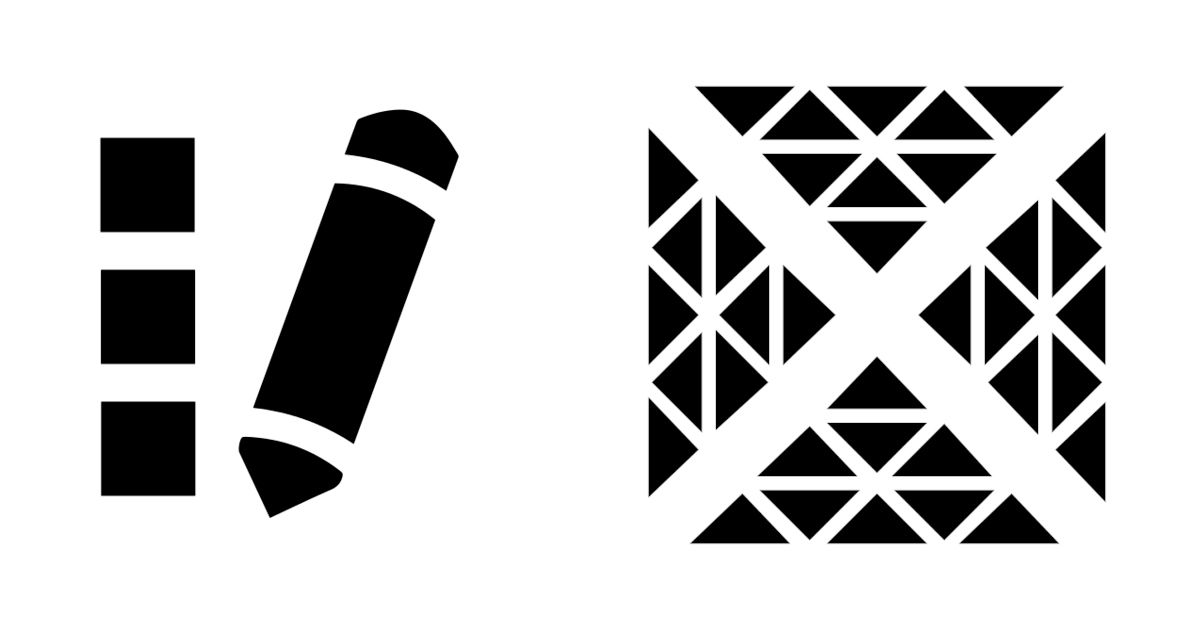
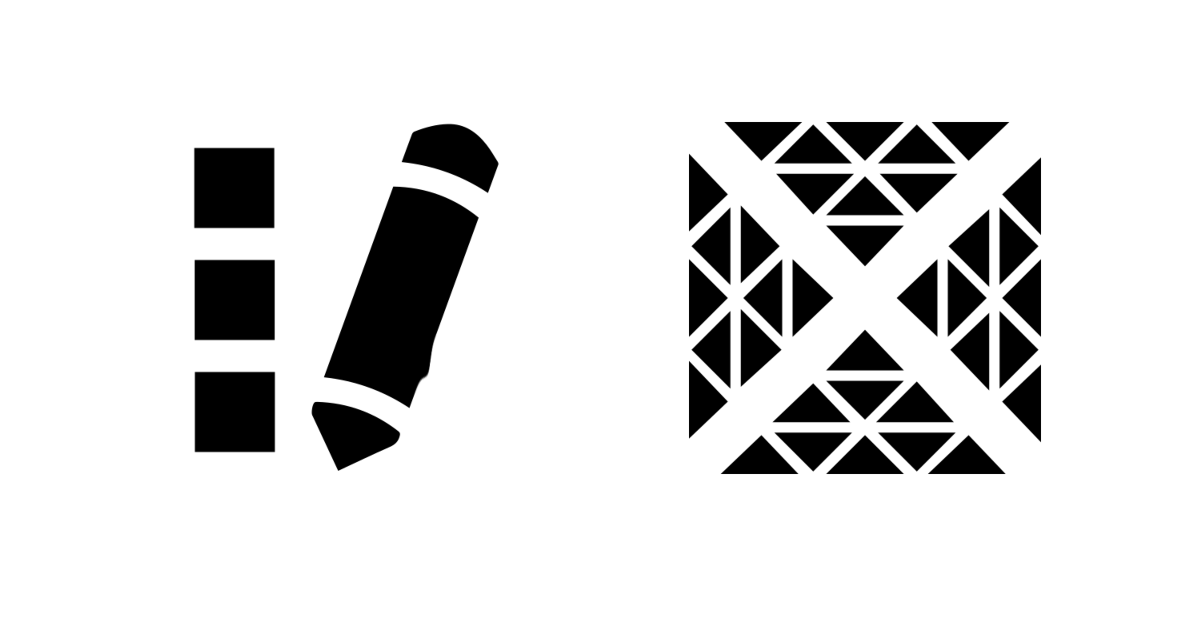
Update rules to include FTO

Changed region(s): [[0.0617, 0.1513, 0.4317, 0.8169], [0.5242, 0.2118, 0.8942, 0.8774], [0.5858, 0.121, 0.925, 0.7866]]

diff --git a/docs/rules/fmc.md b/docs/rules/fmc.md
@@ -1,23 +1,38 @@
 ## Senior Cubers Worldwide - Bi-weekly Competition
 
-### FMC Competition - 3x3x3 Fewest Moves
+### FMC+FTO Competition 
 
-#### Rules
+#### FMC (3x3x3 Fewest Moves Competition) Rules
 
 - Competitors must post a solution and reconstruction/description of their solution(s)
 - Time limit of one hour per scramble
-
-#### Process
-
 - Use the 3 scrambles provided <sup>[1]</sup> - either 1, 2 or 3 attempts
-- Post your solution and reconstruction/description directly to the event page
-  - Include your age category (e.g. 40+) in the description
-  - Include your results as a number (e.g. 32) and Mo3 written to 2 decimal places (e.g. 32.67) or DNF
-  - Indicate if it is your best average to date with a 🔥 emoji <sup>[2]</sup>
-  - Indicate if it is your best single to date with a ⚡ emoji <sup>[2]</sup>
-- Submit your results via the Google Form <sup>[3]</sup> - even if your result was a DNF
 
 Note: You choose how many attempts but use the scrambles in order
+
+#### FTO (Face Turning Octahedron) Rules
+
+- Use the 5 scrambles provided for Ao5 / Mo3 <sup>[1]</sup> - see cutoffs below
+- Entry in one continuous video (you can use multiple videos in comments if it gets too long)
+- Cube and timer visible
+- Inspection limit of 15 seconds
+
+#### Process
+- Post your video/solution directly to the event page or upload to YouTube and share the link
+  - Include your age category (e.g. 40+) in the description
+  - Indicate if it is your best average to date with a 🔥 emoji <sup>[2]</sup>
+  - Indicate if it is your best single to date with a ⚡ emoji <sup>[2]</sup>
+  - For FMC include your results as a number (e.g. 32) and Mo3 written to 2 decimal places (e.g. 32.67) or DNF
+  - For FTO Include your times and Ao5 / Mo3 in the video description, written to 2 decimal places
+      - Please write times unambiguously;  e.g. 1:19.32 rather than 1:17.32 + 2
+- Submit your results via the Google Form <sup>[3]</sup> - even if your result was a DNF
+- You can use an "extra" solve if you are interrupted mid-solve (much like per WCA comps)
+
+#### Cutoffs
+
+- FTO Requires sub-2:30 (within first 3 solves) for for Ao5 
+
+Ao5 = average of 5 (discard fastest and slowest solves), Mo3 = mean of 3
 
 #### Links
 
